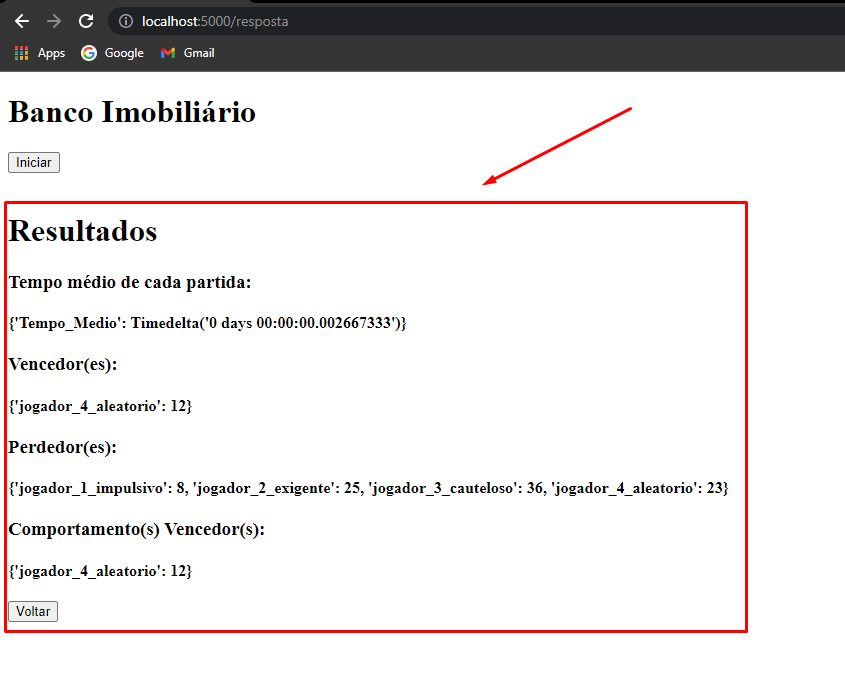
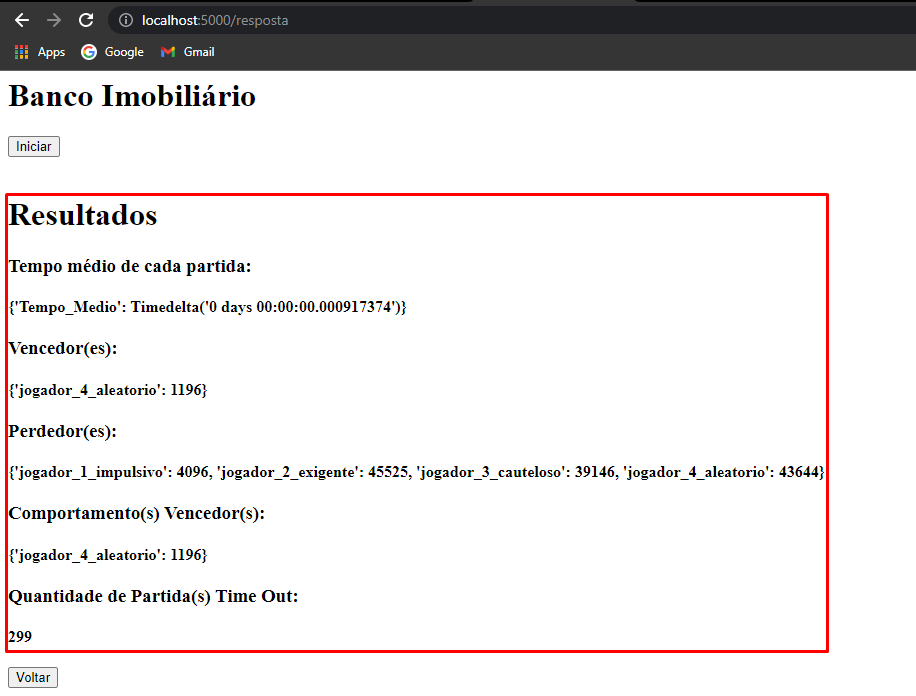
melhorias de script e apresentao de tabela faltante

diff --git a/templates/index.html b/templates/index.html
@@ -42,9 +42,17 @@
 
     {% if html_lista_comportamento_vencedor %}
 
-        <h3>Comportamento(s) Vencedor(s): </h3>
+        <h3>Comportamento(s) Vencedor(es): </h3>
 
         <h4>{{ html_lista_comportamento_vencedor }}</h4>
+
+    {% endif %}
+
+    {% if html_lista_time_out %}
+
+        <h3>Quantidade de partida(s) time out: </h3>
+
+        <h4>{{ html_lista_time_out }}</h4>
 
         <a href="http://localhost:5000"><button>Voltar</button></a>
 

diff --git a/main.py b/main.py
@@ -131,7 +131,7 @@ def executa_programa():
 
 
     # for para limitar o numero de partidas a 300
-    for partida in range(0, 3):
+    for partida in range(0, 299):
 
         # registro da hora de inicio da execucao do programa
         hora_inicial = datetime.today()
@@ -268,39 +268,48 @@ def executa_programa():
     lista_vencedor = pd.DataFrame(lista_vencedor, columns = ['Vencedor'])
     lista_perdedor = pd.DataFrame(lista_perdedor, columns = ['Perdedor'])
     lista_comportamento_vencedor = pd.DataFrame(lista_comportamento_vencedor, columns = ['Comportamento'])
-
-    # saida em console
-    print('\n---------------------------------------\n')
-    print('---------- Média de Tempo -------------')
-    print('\n---------------------------------------\n')
-
-    print(lista_hora.mean())
-
-    print('\n---------------------------------------\n')
-    print('---------- Vencedores -----------------')
-    print('\n---------------------------------------\n')
-
-    print(lista_vencedor.groupby(['Vencedor']).value_counts())
-
-    print('\n---------------------------------------\n')
-    print('---------- Perdedores -----------------')
-    print('\n---------------------------------------\n')
-
-    print(lista_perdedor.groupby(['Perdedor']).value_counts())
-
-    print('\n---------------------------------------\n')
-    print('------- Comportamento Vencedor --------')
-    print('\n---------------------------------------\n')
-
-    print(lista_comportamento_vencedor.groupby(['Comportamento']).value_counts())
+    #lista_time_out = pd.DataFrame(lista_time_out, columns = ['Time_Out'])
 
     # saida em html
     html_lista_hora = lista_hora.mean()
     html_lista_vencedor = lista_vencedor.groupby(['Vencedor']).value_counts()
     html_lista_perdedor = lista_perdedor.groupby(['Perdedor']).value_counts()
     html_lista_comportamento_vencedor = lista_comportamento_vencedor.groupby(['Comportamento']).value_counts()
+    html_lista_time_out = len(lista_time_out)
     
+    # saida em console
+    print('\n---------------------------------------\n')
+    print('---------- Média de Tempo -------------')
+    print('\n---------------------------------------\n')
+
+    print(html_lista_hora)
+
+    print('\n---------------------------------------\n')
+    print('---------- Vencedores -----------------')
+    print('\n---------------------------------------\n')
+
+    print(html_lista_vencedor)
+
+    print('\n---------------------------------------\n')
+    print('---------- Perdedores -----------------')
+    print('\n---------------------------------------\n')
+
+    print(html_lista_perdedor)
+
+    print('\n---------------------------------------\n')
+    print('------- Comportamento Vencedor --------')
+    print('\n---------------------------------------\n')
+
+    print(html_lista_comportamento_vencedor)
+
+    print('\n---------------------------------------\n')
+    print('--- Quantidade de Partidas Time Out ------')
+    print('\n---------------------------------------\n')
+
+    print(html_lista_time_out)
+
     return [dict(html_lista_hora),\
             dict(html_lista_vencedor),\
             dict(html_lista_perdedor),\
-            dict(html_lista_comportamento_vencedor)]
+            dict(html_lista_comportamento_vencedor),\
+            html_lista_time_out]

diff --git a/servidor.py b/servidor.py
@@ -17,7 +17,8 @@ def mostrar_resultados():
                             html_lista_hora=executa_programa()[0],\
                             html_lista_vencedor=executa_programa()[1],\
                             html_lista_perdedor=executa_programa()[2],\
-                            html_lista_comportamento_vencedor=executa_programa()[3])
+                            html_lista_comportamento_vencedor=executa_programa()[3],\
+                            html_lista_time_out=executa_programa()[4])
 
 
 if __name__ =='__main__':

diff --git a/README.md b/README.md
@@ -1,3 +1,15 @@
+# Atividade: Banco Imobiliario
+
+## Tenologias Utilizadas:
+
+### - Python;
+
+### - Flask;
+
+### - Pandas;
+
+### - HTML;
+
 ## Comandos Úteis:
 
 ### - pip install -r requirements.txt
